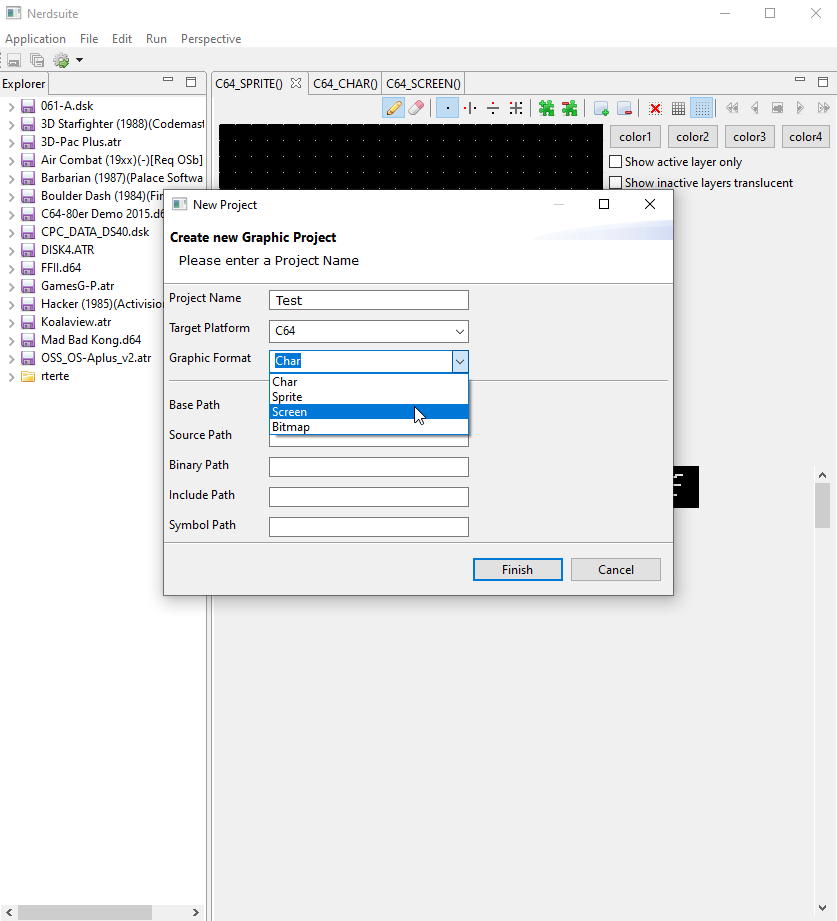
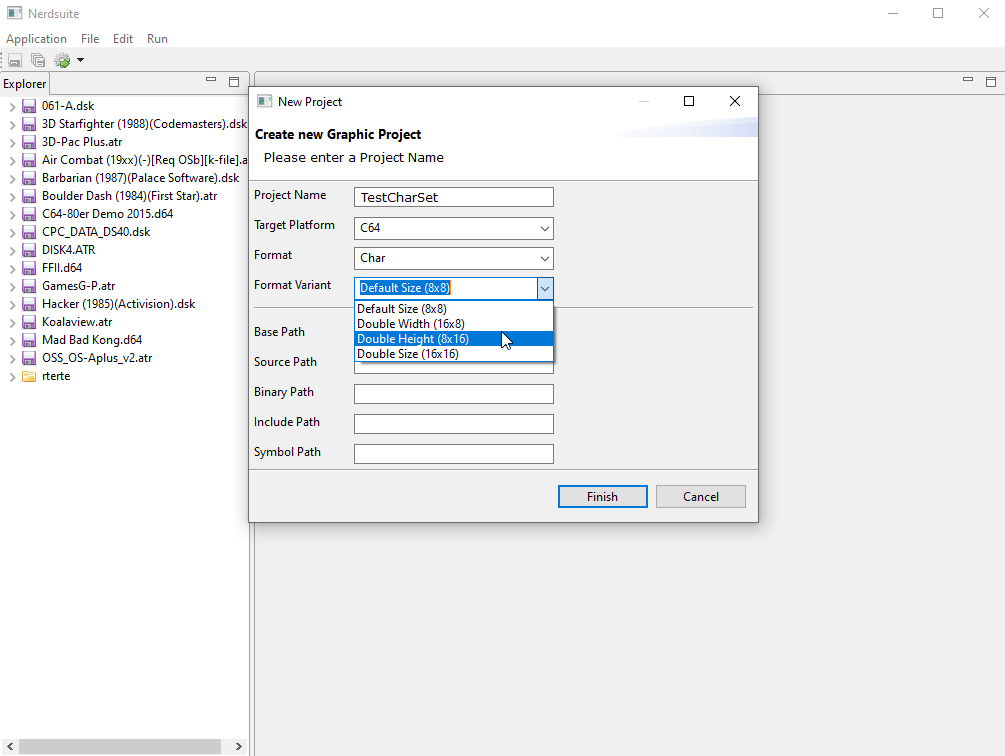
update gfx variant selector

diff --git a/de.drazil.nerdsuite/src/de/drazil/nerdsuite/wizard/GraphicsProjectWizardPage.java b/de.drazil.nerdsuite/src/de/drazil/nerdsuite/wizard/GraphicsProjectWizardPage.java
@@ -32,6 +32,7 @@ import com.fasterxml.jackson.databind.ObjectMapper;
 
 import de.drazil.nerdsuite.Constants;
 import de.drazil.nerdsuite.model.GraphicFormat;
+import de.drazil.nerdsuite.model.GraphicFormatVariant;
 import de.drazil.nerdsuite.model.Project;
 import de.drazil.nerdsuite.model.ProjectFolder;
 import de.drazil.nerdsuite.model.SimpleEntity;
@@ -47,6 +48,7 @@ public class GraphicsProjectWizardPage extends AbstractBoundWizardPage<Project> 
 	private Label projectNameLabel;
 	private Label targetPlatformLabel;
 	private Label gfxFormatLabel;
+	private Label gfxFormatVariantLabel;
 	private Label separatorLabel;
 	private Label basePathLabel;
 	private Label sourcePathLabel;
@@ -61,9 +63,11 @@ public class GraphicsProjectWizardPage extends AbstractBoundWizardPage<Project> 
 	private Text symbolPathText;
 	private ComboViewer targetPlatformCombo;
 	private ComboViewer gfxFormatCombo;
+	private ComboViewer gfxFormatVariantCombo;
 	private SimpleEntity projectType;
 	private List<TargetPlatform> targetPlatformList;
 	private List<GraphicFormat> graphicFormatList;
+	private List<GraphicFormat> graphicFormatVariantList;
 
 	/**
 	 * Create the wizard.
@@ -92,12 +96,17 @@ public class GraphicsProjectWizardPage extends AbstractBoundWizardPage<Project> 
 		targetPlatformLabel = new Label(container, SWT.NONE);
 		targetPlatformLabel.setText("Target Platform");
 		gfxFormatLabel = new Label(container, SWT.NONE);
-		gfxFormatLabel.setText("Graphic Format");
+		gfxFormatLabel.setText("Format");
+		gfxFormatVariantLabel = new Label(container, SWT.NONE);
+		gfxFormatVariantLabel.setText("Format Variant");
 
 		List<TargetPlatform> targetPlatformList = getTargetPlatFormList();
 		getModel().setTargetPlatform(targetPlatformList.get(0).getId());
-		List<GraphicFormat> graphicFormatList = getGraphicFormatList(targetPlatformList.get(0));
+		List<GraphicFormat> graphicFormatList = GraphicFormatFactory
+				.getFormatByPrefix(targetPlatformList.get(0).getId());
 		getModel().setProjectType(graphicFormatList.get(0).getId());
+		List<GraphicFormatVariant> graphicFormatVariantList = graphicFormatList.get(0).getVariants();
+		getModel().setProjectSubType(graphicFormatVariantList.get(0).getId());
 
 		projectNameText = new Text(container, SWT.BORDER);
 		targetPlatformCombo = new ComboViewer(container, SWT.NONE);
@@ -120,7 +129,7 @@ public class GraphicsProjectWizardPage extends AbstractBoundWizardPage<Project> 
 			public void selectionChanged(SelectionChangedEvent event) {
 				StructuredSelection selection = (StructuredSelection) event.getSelection();
 				TargetPlatform targetPlatform = (TargetPlatform) selection.getFirstElement();
-				List<GraphicFormat> l = getGraphicFormatList(targetPlatform);
+				List<GraphicFormat> l = GraphicFormatFactory.getFormatByPrefix(targetPlatform.getId());
 				gfxFormatCombo.setInput(l);
 
 				if (l.size() > 0) {
@@ -154,6 +163,24 @@ public class GraphicsProjectWizardPage extends AbstractBoundWizardPage<Project> 
 				StructuredSelection selection = (StructuredSelection) event.getSelection();
 				GraphicFormat graphicFormat = (GraphicFormat) selection.getFirstElement();
 				getModel().setProjectType(graphicFormat.getId());
+				List<GraphicFormatVariant> l = GraphicFormatFactory.getFormatVariantByPrefix(graphicFormat.getId());
+				gfxFormatVariantCombo.setInput(l);
+
+			}
+		});
+
+		gfxFormatVariantCombo = new ComboViewer(container, SWT.NONE);
+		gfxFormatVariantCombo.setContentProvider(ArrayContentProvider.getInstance());
+		gfxFormatVariantCombo.setInput(graphicFormatVariantList);
+		gfxFormatVariantCombo.setSelection(new StructuredSelection(graphicFormatVariantList.get(0)));
+		gfxFormatVariantCombo.setLabelProvider(new LabelProvider() {
+			@Override
+			public String getText(Object element) {
+				if (element instanceof GraphicFormatVariant) {
+					GraphicFormatVariant current = (GraphicFormatVariant) element;
+					return current.getName();
+				}
+				return super.getText(element);
 			}
 		});
 
@@ -193,6 +220,11 @@ public class GraphicsProjectWizardPage extends AbstractBoundWizardPage<Project> 
 		gfxFormatLabel.setLayoutData(formData);
 
 		formData = new FormData();
+		formData.top = new FormAttachment(gfxFormatLabel, 15, SWT.BOTTOM);
+		formData.left = new FormAttachment(gfxFormatLabel, 0, SWT.LEFT);
+		gfxFormatVariantLabel.setLayoutData(formData);
+
+		formData = new FormData();
 		formData.top = new FormAttachment(projectNameLabel, 0, SWT.TOP);
 		formData.left = new FormAttachment(container, 100, SWT.RIGHT);
 		formData.right = new FormAttachment(container, 300);
@@ -211,7 +243,13 @@ public class GraphicsProjectWizardPage extends AbstractBoundWizardPage<Project> 
 		gfxFormatCombo.getControl().setLayoutData(formData);
 
 		formData = new FormData();
-		formData.top = new FormAttachment(gfxFormatLabel, 15, SWT.BOTTOM);
+		formData.top = new FormAttachment(gfxFormatVariantLabel, 0, SWT.TOP);
+		formData.left = new FormAttachment(container, 100, SWT.RIGHT);
+		formData.right = new FormAttachment(container, 300);
+		gfxFormatVariantCombo.getControl().setLayoutData(formData);
+
+		formData = new FormData();
+		formData.top = new FormAttachment(gfxFormatVariantLabel, 15, SWT.BOTTOM);
 		formData.left = new FormAttachment(0, 0);
 		formData.right = new FormAttachment(100, 0);
 		separatorLabel.setLayoutData(formData);
@@ -364,10 +402,14 @@ public class GraphicsProjectWizardPage extends AbstractBoundWizardPage<Project> 
 		return targetPlatformList;
 	}
 
-	private List<GraphicFormat> getGraphicFormatList(TargetPlatform targetPlatform) {
-		return GraphicFormatFactory.getFormatByPrefix(targetPlatform.getId());
-	}
-
+	/*
+	 * private List<GraphicFormat> getGraphicFormatList(TargetPlatform
+	 * targetPlatform) { return
+	 * GraphicFormatFactory.getFormatByPrefix(targetPlatform.getId()); }
+	 * 
+	 * private List<GraphicFormatVariant> getGraphicFormatVariantList(String name) {
+	 * return GraphicFormatFactory.getFormatVariantByPrefix(name); }
+	 */
 	@Override
 	public boolean isPageComplete() {
 		getModel().setId(projectNameText.getText().toUpperCase());

diff --git a/de.drazil.nerdsuite/src/de/drazil/nerdsuite/widget/ImagingWidget.java b/de.drazil.nerdsuite/src/de/drazil/nerdsuite/widget/ImagingWidget.java
@@ -107,7 +107,7 @@ public class ImagingWidget extends BaseImagingWidget implements IDrawListener, P
 		} else if (supportsPainting()) {
 			paintTileService.setPixel(tile, cursorX, cursorY, conf);
 			doDrawPixel();
-			// fireDoDrawTile(ImagingWidget.this);
+			fireDoDrawAllTiles(ImagingWidget.this);
 		}
 	}
 
@@ -153,8 +153,7 @@ public class ImagingWidget extends BaseImagingWidget implements IDrawListener, P
 				oldCursorY = cursorY;
 				paintTileService.setPixel(tile, cursorX, cursorY, conf);
 				doDrawPixel();
-				// doDrawTile();
-				// fireDoDrawTile(ImagingWidget.this);
+				fireDoDrawAllTiles(ImagingWidget.this);
 			}
 		} else if (supportsMultiSelection()) {
 			// computeSelection(false, false);
@@ -211,17 +210,17 @@ public class ImagingWidget extends BaseImagingWidget implements IDrawListener, P
 			boolean paintTelevisionMode) {
 
 		if (redrawMode == RedrawMode.DrawPixel) {
-			paintTileService.paintPixel(gc, tile, cursorX, cursorY, conf);
+			paintTileService.paintPixel(gc, tileRepositoryService.getSelectedTile(), cursorX, cursorY, conf);
 		}
 
 		ScaleMode scaleMode = supportsPainting() ? ScaleMode.None : ScaleMode.D2;
 
 		if (redrawMode == RedrawMode.DrawTile) {
-			paintTileService.paintTile(gc, tile, conf);
+			paintTileService.paintTile(gc, tileRepositoryService.getSelectedTile(), conf);
 		}
 		if (redrawMode == RedrawMode.DrawAllTiles) {
 			if (supportsPainting()) {
-				paintTileService.paintTile(gc, tile, conf);
+				paintTileService.paintTile(gc, tileRepositoryService.getSelectedTile(), conf);
 			} else {
 				paintTileService.paintAllTiles(this, gc, conf);
 			}

diff --git a/de.drazil.nerdsuite/src/de/drazil/nerdsuite/imaging/GfxEditorView.java b/de.drazil.nerdsuite/src/de/drazil/nerdsuite/imaging/GfxEditorView.java
@@ -172,7 +172,8 @@ public class GfxEditorView {
 
 		GridData gridData = null;
 		GraphicFormat graphicFormat = (GraphicFormat) ((Map<String, Object>) part.getObject()).get("gfxFormat");
-		getPainterWidget().getConf().setGraphicFormat(graphicFormat, 0);
+		int graphicFormatVariant = (Integer) ((Map<String, Object>) part.getObject()).get("gfxFormatVariant");
+		getPainterWidget().getConf().setGraphicFormat(graphicFormat, graphicFormatVariant);
 		gridData = new GridData(GridData.HORIZONTAL_ALIGN_BEGINNING);
 		gridData.verticalSpan = 5;
 		getPainterWidget().setLayoutData(gridData);
@@ -256,6 +257,7 @@ public class GfxEditorView {
 		}
 
 		getPainterWidget().recalc();
+		getPainterWidget().addDrawListener(getRepositoryWidget());
 
 	}
 
@@ -271,7 +273,7 @@ public class GfxEditorView {
 			painter.getConf().supportsDrawCursor = true;
 			painter.getConf().setScaleMode(ScaleMode.None);
 			painter.recalc();
-			// painter.addDrawListener(getRepositoryWidget());
+
 			// painter.addDrawListener(getPreviewerWidget());
 		}
 		return painter;

diff --git a/de.drazil.nerdsuite/src/de/drazil/nerdsuite/handler/NewProjectHandler.java b/de.drazil.nerdsuite/src/de/drazil/nerdsuite/handler/NewProjectHandler.java
@@ -22,6 +22,7 @@ import org.eclipse.swt.widgets.Shell;
 import de.drazil.nerdsuite.Constants;
 import de.drazil.nerdsuite.configuration.Configuration;
 import de.drazil.nerdsuite.configuration.Initializer;
+import de.drazil.nerdsuite.constants.SizeVariant;
 import de.drazil.nerdsuite.model.GraphicFormat;
 import de.drazil.nerdsuite.model.Project;
 import de.drazil.nerdsuite.model.ProjectFolder;
@@ -61,7 +62,8 @@ public class NewProjectHandler {
 				Map<String, Object> projectSetup = new HashMap<String, Object>();
 				projectSetup.put("project", project);
 				projectSetup.put("gfxFormat", gf);
-				projectSetup.put("gfxFormatVariant", 0);
+				projectSetup.put("gfxFormatVariant",
+						SizeVariant.getSizeVariantByName(project.getProjectSubType()).getId());
 				projectSetup.put("setSelectedTile", 0);
 
 				// MPart part = MBasicFactory.INSTANCE.createPart();

diff --git a/de.drazil.nerdsuite/src/de/drazil/nerdsuite/wizard/CodingProjectWizardPage.java b/de.drazil.nerdsuite/src/de/drazil/nerdsuite/wizard/CodingProjectWizardPage.java
@@ -6,13 +6,10 @@ import java.util.Optional;
 import java.util.stream.Collectors;
 
 import org.eclipse.core.databinding.AggregateValidationStatus;
-import org.eclipse.core.databinding.DataBindingContext;
-import org.eclipse.core.databinding.beans.PojoProperties;
 import org.eclipse.core.databinding.observable.ChangeEvent;
 import org.eclipse.core.databinding.observable.IChangeListener;
 import org.eclipse.core.databinding.observable.IObservableCollection;
 import org.eclipse.core.databinding.observable.sideeffect.ISideEffect;
-import org.eclipse.core.databinding.observable.value.IObservableValue;
 import org.eclipse.core.runtime.Platform;
 import org.eclipse.jface.databinding.swt.ISWTObservableValue;
 import org.eclipse.jface.databinding.swt.WidgetProperties;

diff --git a/de.drazil.nerdsuite/src/de/drazil/nerdsuite/widget/GraphicFormatFactory.java b/de.drazil.nerdsuite/src/de/drazil/nerdsuite/widget/GraphicFormatFactory.java
@@ -11,6 +11,7 @@ import org.osgi.framework.Bundle;
 import com.fasterxml.jackson.databind.ObjectMapper;
 
 import de.drazil.nerdsuite.model.GraphicFormat;
+import de.drazil.nerdsuite.model.GraphicFormatVariant;
 
 public class GraphicFormatFactory {
 	private static List<GraphicFormat> graphicFormatList;
@@ -45,5 +46,9 @@ public class GraphicFormatFactory {
 			}
 		}
 		return graphicFormatList.stream().filter(gf -> gf.getId().startsWith(name)).collect(Collectors.toList());
+	}
+
+	public static List<GraphicFormatVariant> getFormatVariantByPrefix(String name) {
+		return getFormatByName(name).getVariants();
 	}
 }

diff --git a/de.drazil.nerdsuite/src/de/drazil/nerdsuite/constants/SizeVariant.java b/de.drazil.nerdsuite/src/de/drazil/nerdsuite/constants/SizeVariant.java
@@ -1,0 +1,31 @@
+package de.drazil.nerdsuite.constants;
+
+public enum SizeVariant {
+	Standard(0, "STANDARD"), DX(1, "2X"), DY(2, "2Y"), DXY(3, "2XY");
+
+	private int id;
+	private String name;
+
+	private SizeVariant(int id, String name) {
+		this.name = name;
+	}
+
+	public int getId() {
+		return id;
+	}
+
+	public String getName() {
+		return name;
+	}
+
+	public static SizeVariant getSizeVariantByName(String name) {
+		SizeVariant result = null;
+		for (SizeVariant sv : values()) {
+			if (sv.getName().equalsIgnoreCase(name)) {
+				result = sv;
+				break;
+			}
+		}
+		return result;
+	}
+}

diff --git a/de.drazil.nerdsuite/src/de/drazil/nerdsuite/model/Project.java b/de.drazil.nerdsuite/src/de/drazil/nerdsuite/model/Project.java
@@ -3,7 +3,6 @@ package de.drazil.nerdsuite.model;
 import java.util.ArrayList;
 import java.util.List;
 
-import com.fasterxml.jackson.annotation.JsonIgnore;
 import com.fasterxml.jackson.annotation.JsonProperty;
 
 import lombok.AllArgsConstructor;
@@ -18,7 +17,7 @@ public class Project {
 	private boolean open;
 	private String targetPlatform;
 	private String projectType;
-	@JsonIgnore
+	// @JsonIgnore
 	private String projectSubType;
 
 	@JsonProperty("folders")
